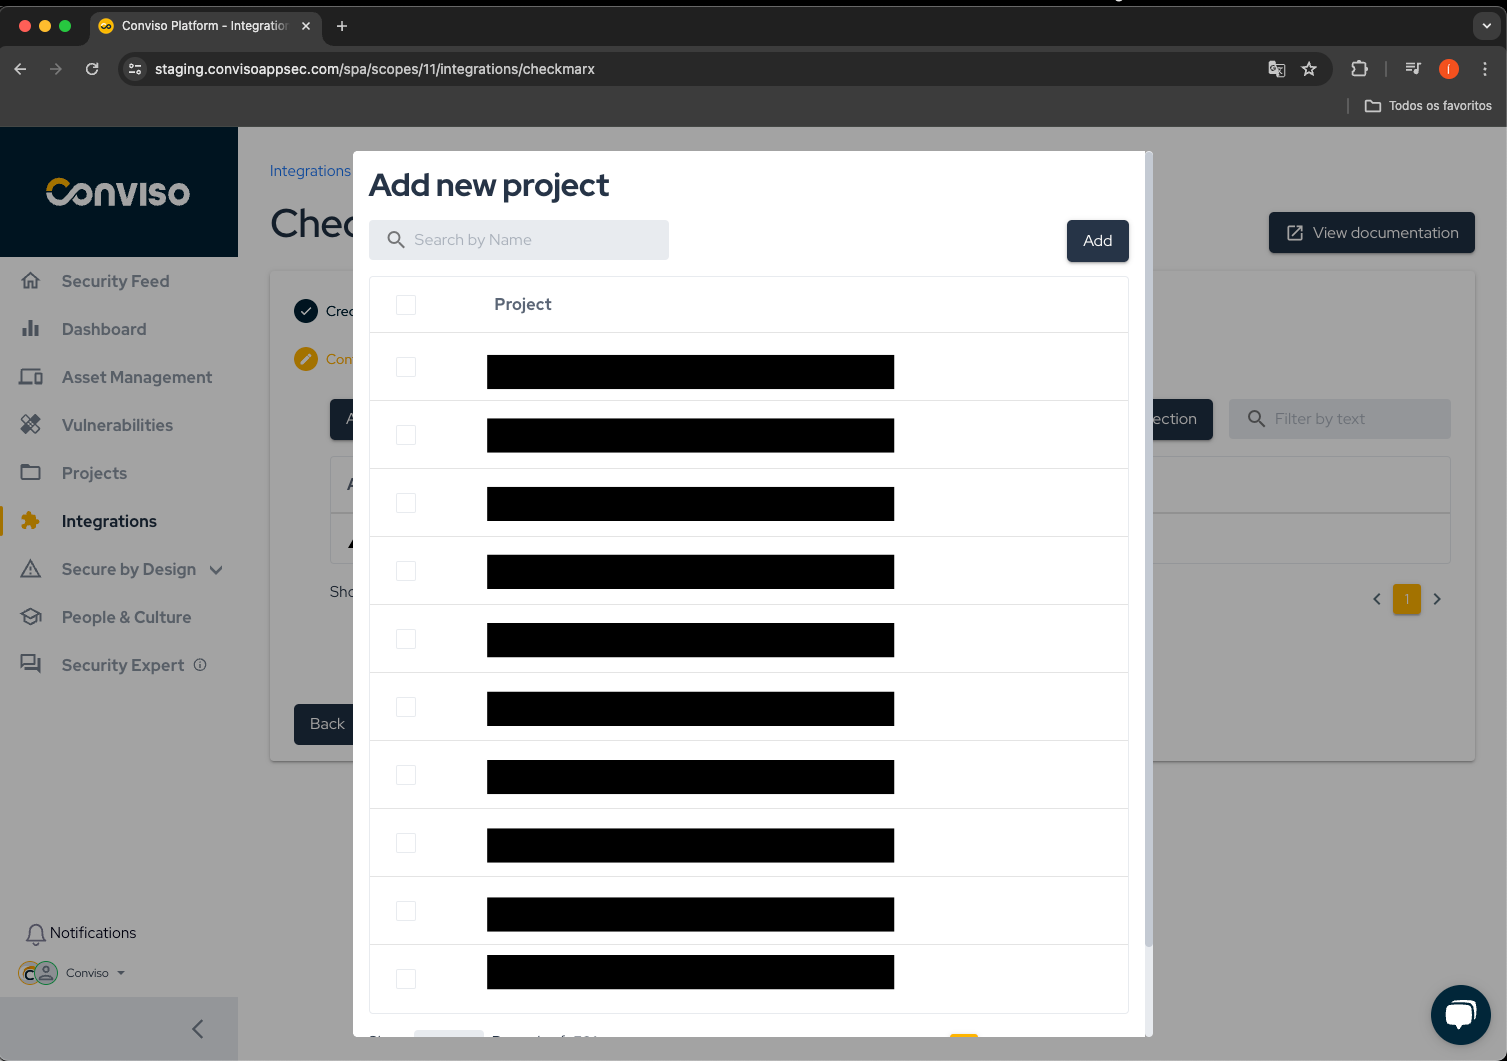
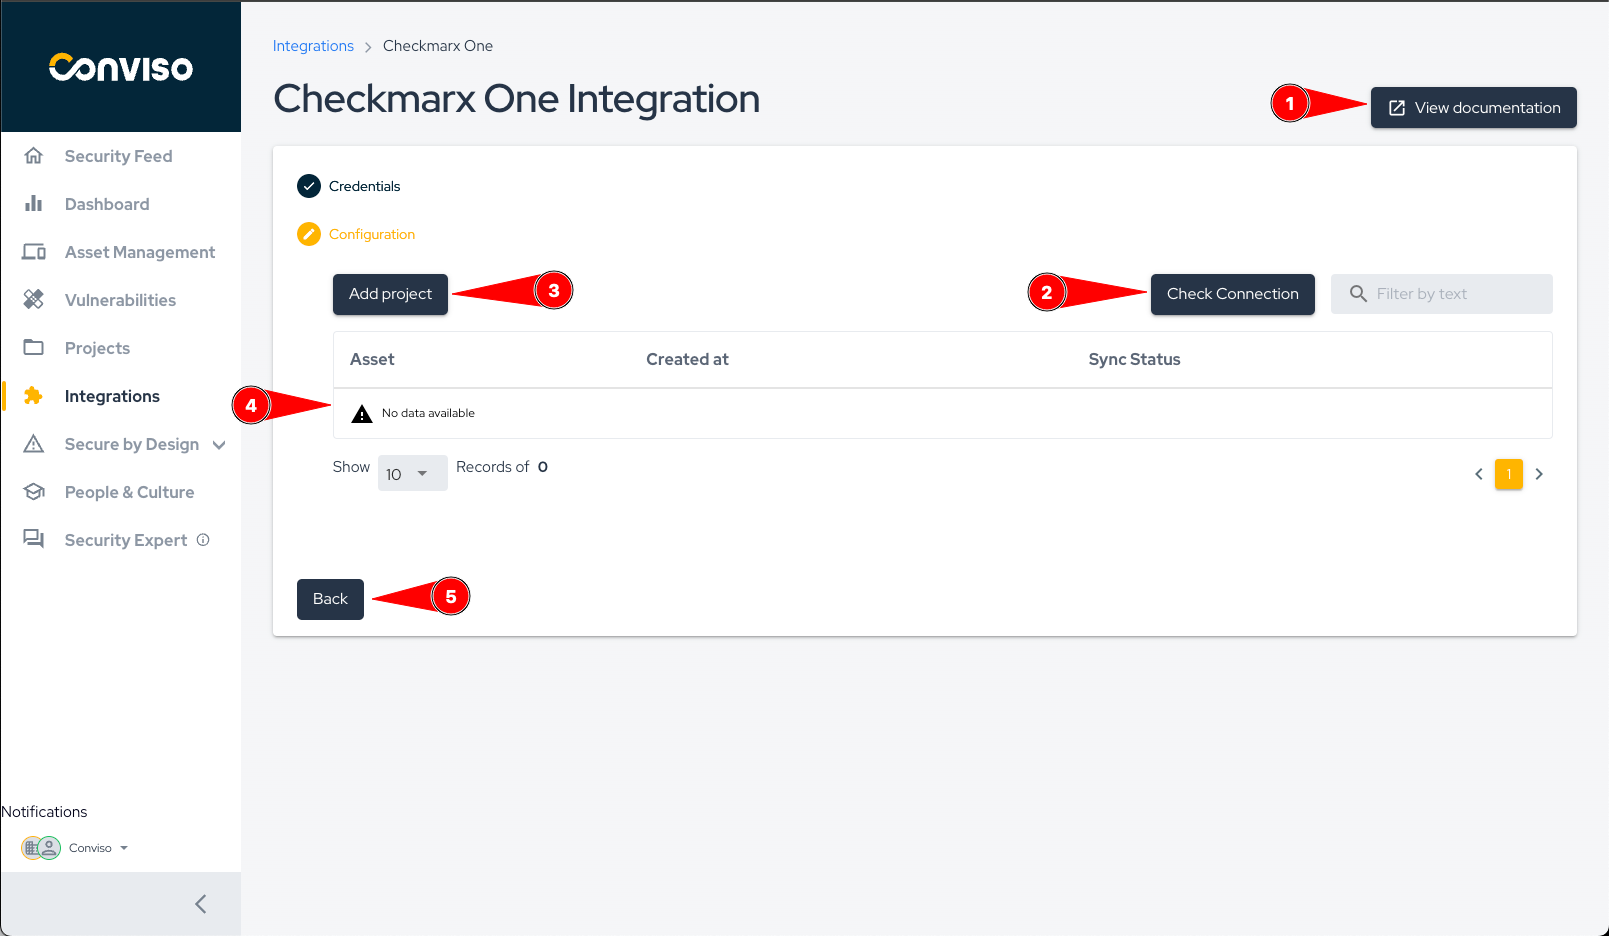
add more information to checkmarx docs

diff --git a/docs/integrations/checkmarx.md b/docs/integrations/checkmarx.md
@@ -23,7 +23,7 @@ This integration enables the automatic import of issues (vulnerabilities) identi
 
 To integrate Checkmarx with the Conviso Platform, you will need the following data:
 
-- Permission to access and modify projects and vulnerabilities, you can find the list of permissions [here](#list-of-permissions-needed)
+- Permission to access and modify projects and vulnerabilities, the account you use to create the API key needs to have the "ast-admin" role in Checkmarx.
 
 - API KEY from an user with correct permissions 
 
@@ -31,9 +31,8 @@ To integrate Checkmarx with the Conviso Platform, you will need the following da
 
 To perform the integration between the two platforms, follow these steps after logging into the platform:
 
-1. In the environment, choose the option where your Checkmarx is hosted.
-2. Look for the Checkmarx image in the integrations; you can use the "Scanners" filter to simplify the search.
-3. Click on the "Integrate" button, and a form similar to the image below will appear.
+1. Click on the Integrations option in the side menu.
+2. Look for the Checkmarx One icon and then click on Integrate button.
 
 <div style={{textAlign: 'center'}}>
 
@@ -41,12 +40,7 @@ To perform the integration between the two platforms, follow these steps after l
 
 </div>
 
-4. Fill in the environment where your checkmarx is hosted.
-5. Enter your API token.
-6. Enter your tenant name.
-7. Click on "Save."
-
-After completing the seventh step, the following screen will appear. On this screen, you can manage your Checkmarx integration, view and import projects, and test if your Checkmarx connection is active.
+A form similar to the image below will appear.
 
 <div style={{textAlign: 'center'}}>
 
@@ -54,17 +48,57 @@ After completing the seventh step, the following screen will appear. On this scr
 
 </div>
 
-## Importing Assets
+If you're not sure where to get the information below, follow our tutorial [here](#how-to-get-the-necessary-information-for-the-integration).
 
-1. To import a project, go to the integration configuration page by selecting the "Integrations" option from the side menu. If you already have a Checkmarx integration, click on "Configure."
-2. After accessing the integration configuration screen, click on "New Project," and a screen displaying the names of the projects will appear.
-3. You can use the search bar to filter by project name. After selecting the projects you want to import, click "Add" at the top of the modal.
+1. Fill in the environment where your checkmarx is hosted.
+2. Enter your API token.
+3. Enter your tenant name.
+4. Click on "Save."
+
+After completing the steps, the following screen will appear.
 
 <div style={{textAlign: 'center'}}>
 
 ![img](../../static/img/checkmarx-img3.png)
 
 </div>
+
+On this screen, you can manage your Checkmarx integration, view and import projects, and test if your Checkmarx connection is active.
+
+1. View this documentation.
+2. Check if the communication with your Checkmarx One is active.
+3. Add a new Checkmarx project to the Conviso Platform.
+4. Table containing all the assets in the Conviso Platform that you imported from Checkmarx.
+5. Button to return to the Checkmarx credentials configuration.
+
+
+## Importing Assets
+
+To import a new project from Checkmarx One to the Conviso Platform, follow the steps below:
+1. Click on Integration in the side menu.
+2. Look for the Checkmarx One icon and then click on the Configure button.
+
+<div style={{textAlign: 'center'}}>
+
+![img](../../static/img/checkmarx-img9.png)
+
+</div>
+
+This will take you to the Checkmarx One configuration page.
+
+1. Click on the Add Project button.
+
+The Selection Form showing the projects registered in Checkmarx One will appear as shown in the image below.
+
+<div style={{textAlign: 'center'}}>
+
+![img](../../static/img/checkmarx-img4.png)
+
+</div>
+
+1. You can use the search bar to filter by project name.
+2. Select which projects to import.
+3. Click on the Add button at the top of the form.
 
 **Obs: Currently, when you select and import a project from Checkmarx, an asset will be created for each existing branch in that project in Checkmarx, and the vulnerabilities present in the latest scan of each branch will be imported.**
 
@@ -100,25 +134,65 @@ When changing the status in the Conviso Platform, these changes will be replicat
 
 ### Synchronization
 
-To monitor or initiate a synchronization, you can follow the steps below:
+The synchronization of assets is automatically initiated every time a scan is successfully completed in Checkmarx One. You can also start a manual synchronization.
+
+To check the status or start a manual synchronization, follow the steps below:
 
 1. Go to the Assets Management page.
-2. Click on the name of the asset you want to synchronize.
-3. On the asset's detail page, click on View All next to Integration, as shown in the image below.
+2. Click on the name of the asset that has the integration with Checkmarx.
 
 <div style={{textAlign: 'center'}}>
 
-![img](../../static/img/fortify-img7-new.png)
+![img](../../static/img/checkmarx-img11.png)
 
 </div>
 
-4. A new screen will open, where you will find the button to initiate an integration, along with a progress bar indicating the status if synchronization is in progress. In case of any errors, they will also be displayed on this screen.
 
-### List of Permissions needed
+On the asset's detail page, click on View All next to Integration, as shown in the image below.
 
-- manage-application
-- ast-admin
-- manage-project
+<div style={{textAlign: 'center'}}>
 
+![img](../../static/img/checkmarx-img5.png)
+
+</div>
+
+A modal will appear as shown in the photo below.
+
+<div style={{textAlign: 'center'}}>
+
+![img](../../static/img/checkmarx-img6.png)
+
+</div>
+
+In this modal, you will have the following information:
+1. Time when the last synchronization was initiated.
+2. Progress bar showing the progress of the synchronization if it is in progress.
+3. Button to start a synchronization. A synchronization can only be initiated if the previous one has already finished.
+
+## How to get the necessary information for the integration.
+
+To get this information, you will need to log in to Checkmarx One and follow the steps below:
+
+1. In the side menu, hover your mouse over the gear icon.
+2. Click on the Identity and Access Management option.
+
+<div style={{textAlign: 'center'}}>
+
+![img](../../static/img/checkmarx-img7.png)
+
+</div>
+
+1. In the side menu, click on API Keys.
+2. To get the information of environment, you can check the URL and look at the name that comes before the first dot.
+3. Still in the URL of the page, where marker 3 points, you will find your tenant name.
+4. Create a new API key.
+
+With this information, you can now create the integration in the Conviso Platform by following the steps mentioned above.
+
+<div style={{textAlign: 'center'}}>
+
+![img](../../static/img/checkmarx-img8.png)
+
+</div>
 
 [![Discover Conviso Platform!](https://no-cache.hubspot.com/cta/default/5613826/interactive-125788977029.png)](https://cta-service-cms2.hubspot.com/web-interactives/public/v1/track/redirect?encryptedPayload=AVxigLKtcWzoFbzpyImNNQsXC9S54LjJuklwM39zNd7hvSoR%2FVTX%2FXjNdqdcIIDaZwGiNwYii5hXwRR06puch8xINMyL3EXxTMuSG8Le9if9juV3u%2F%2BX%2FCKsCZN1tLpW39gGnNpiLedq%2BrrfmYxgh8G%2BTcRBEWaKasQ%3D&webInteractiveContentId=125788977029&portalId=5613826)
